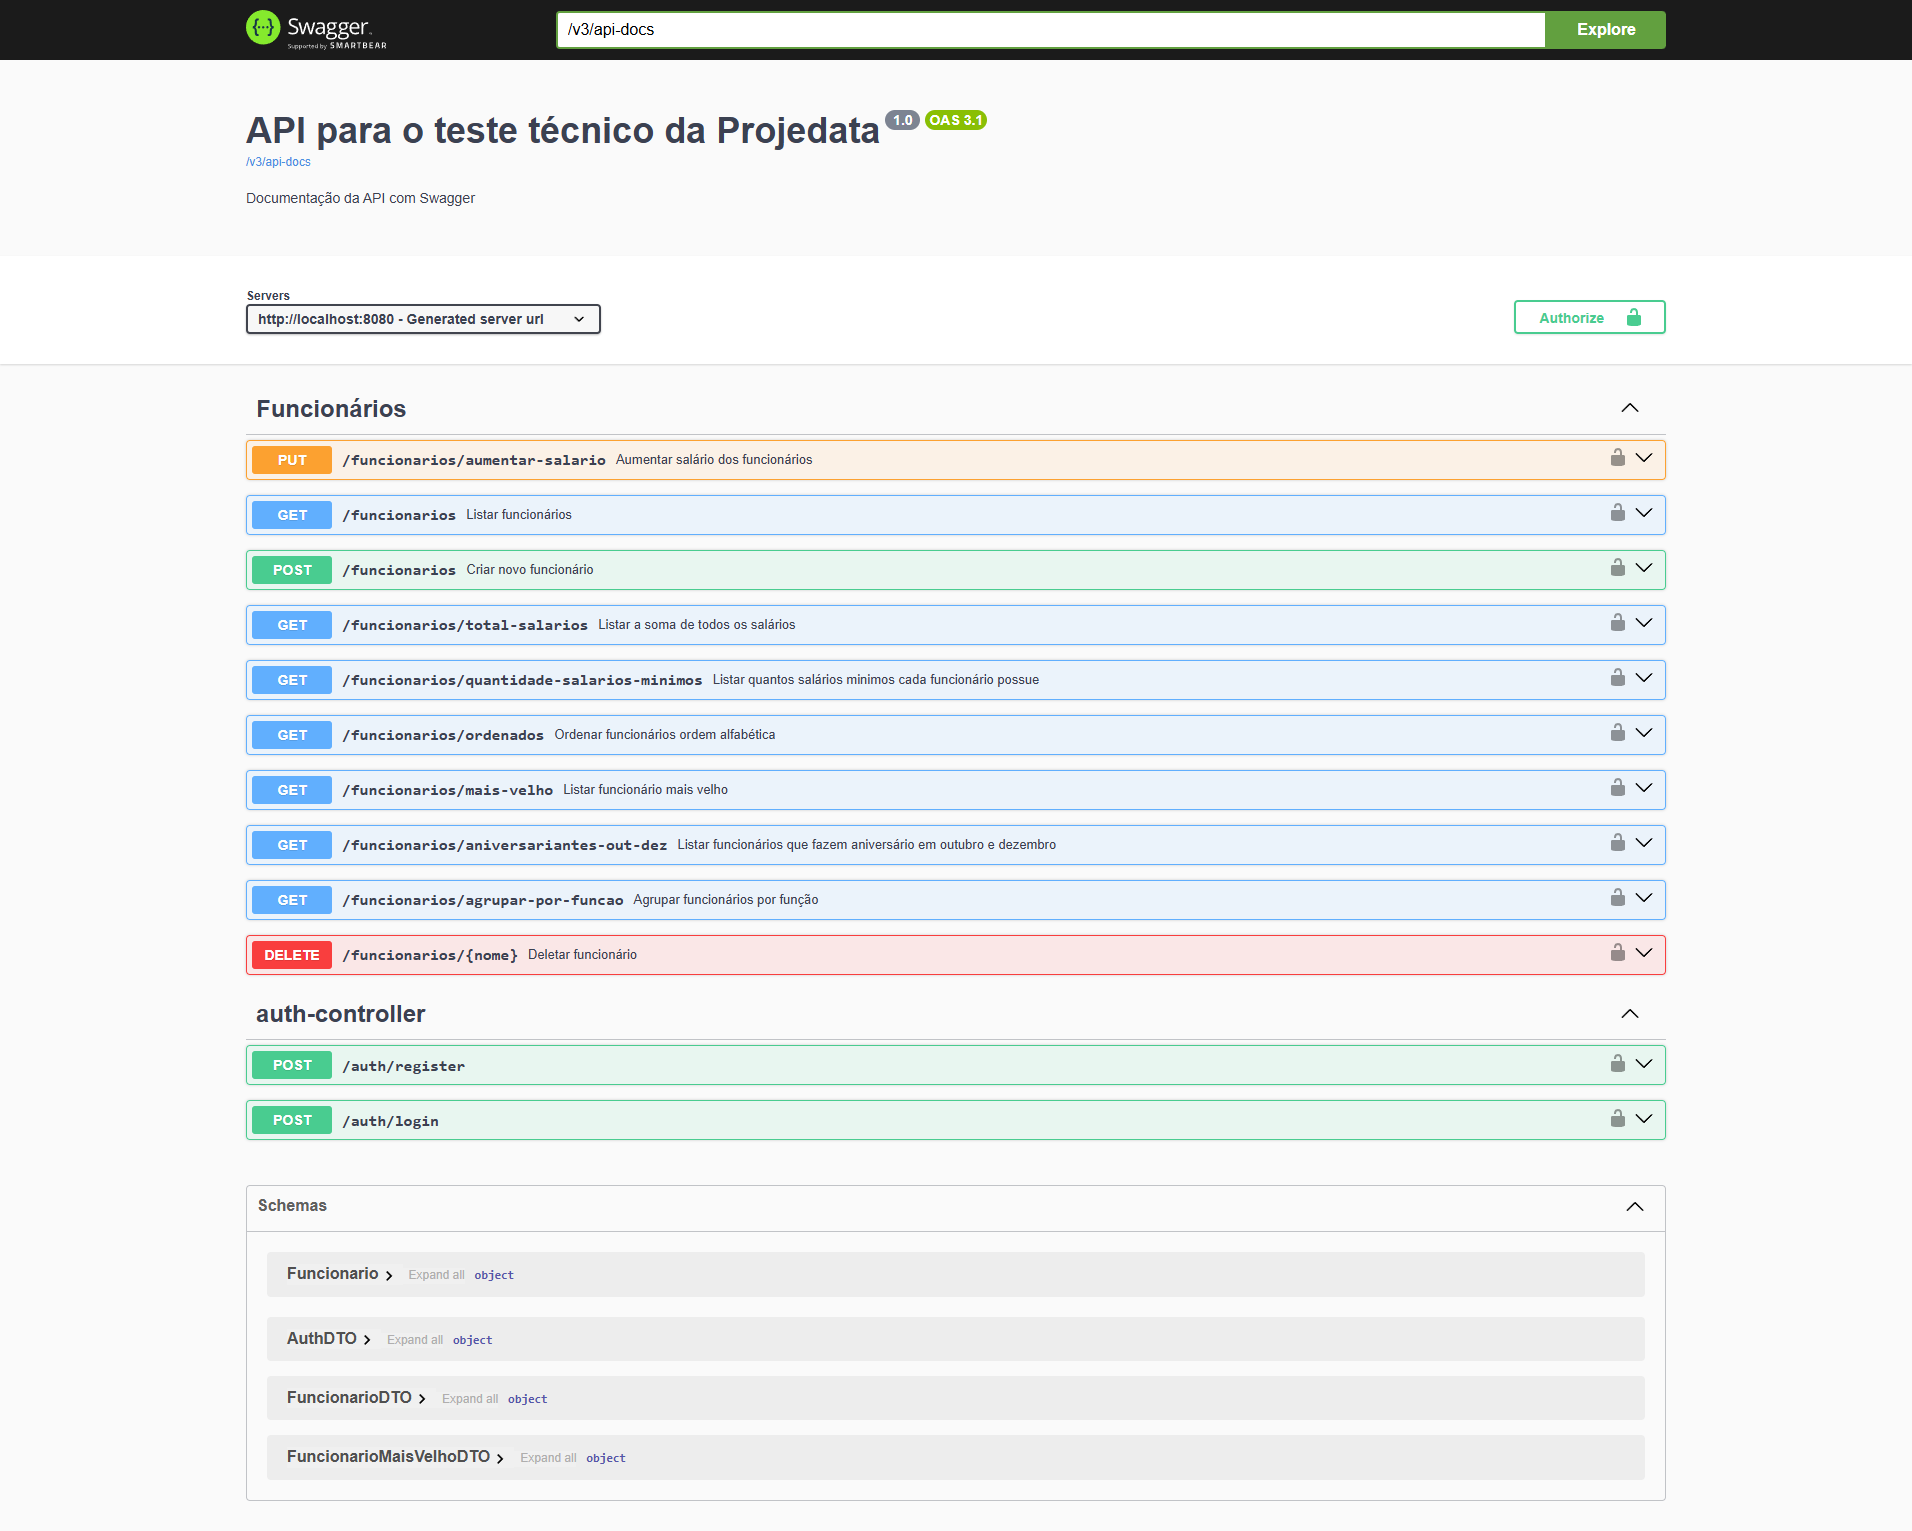
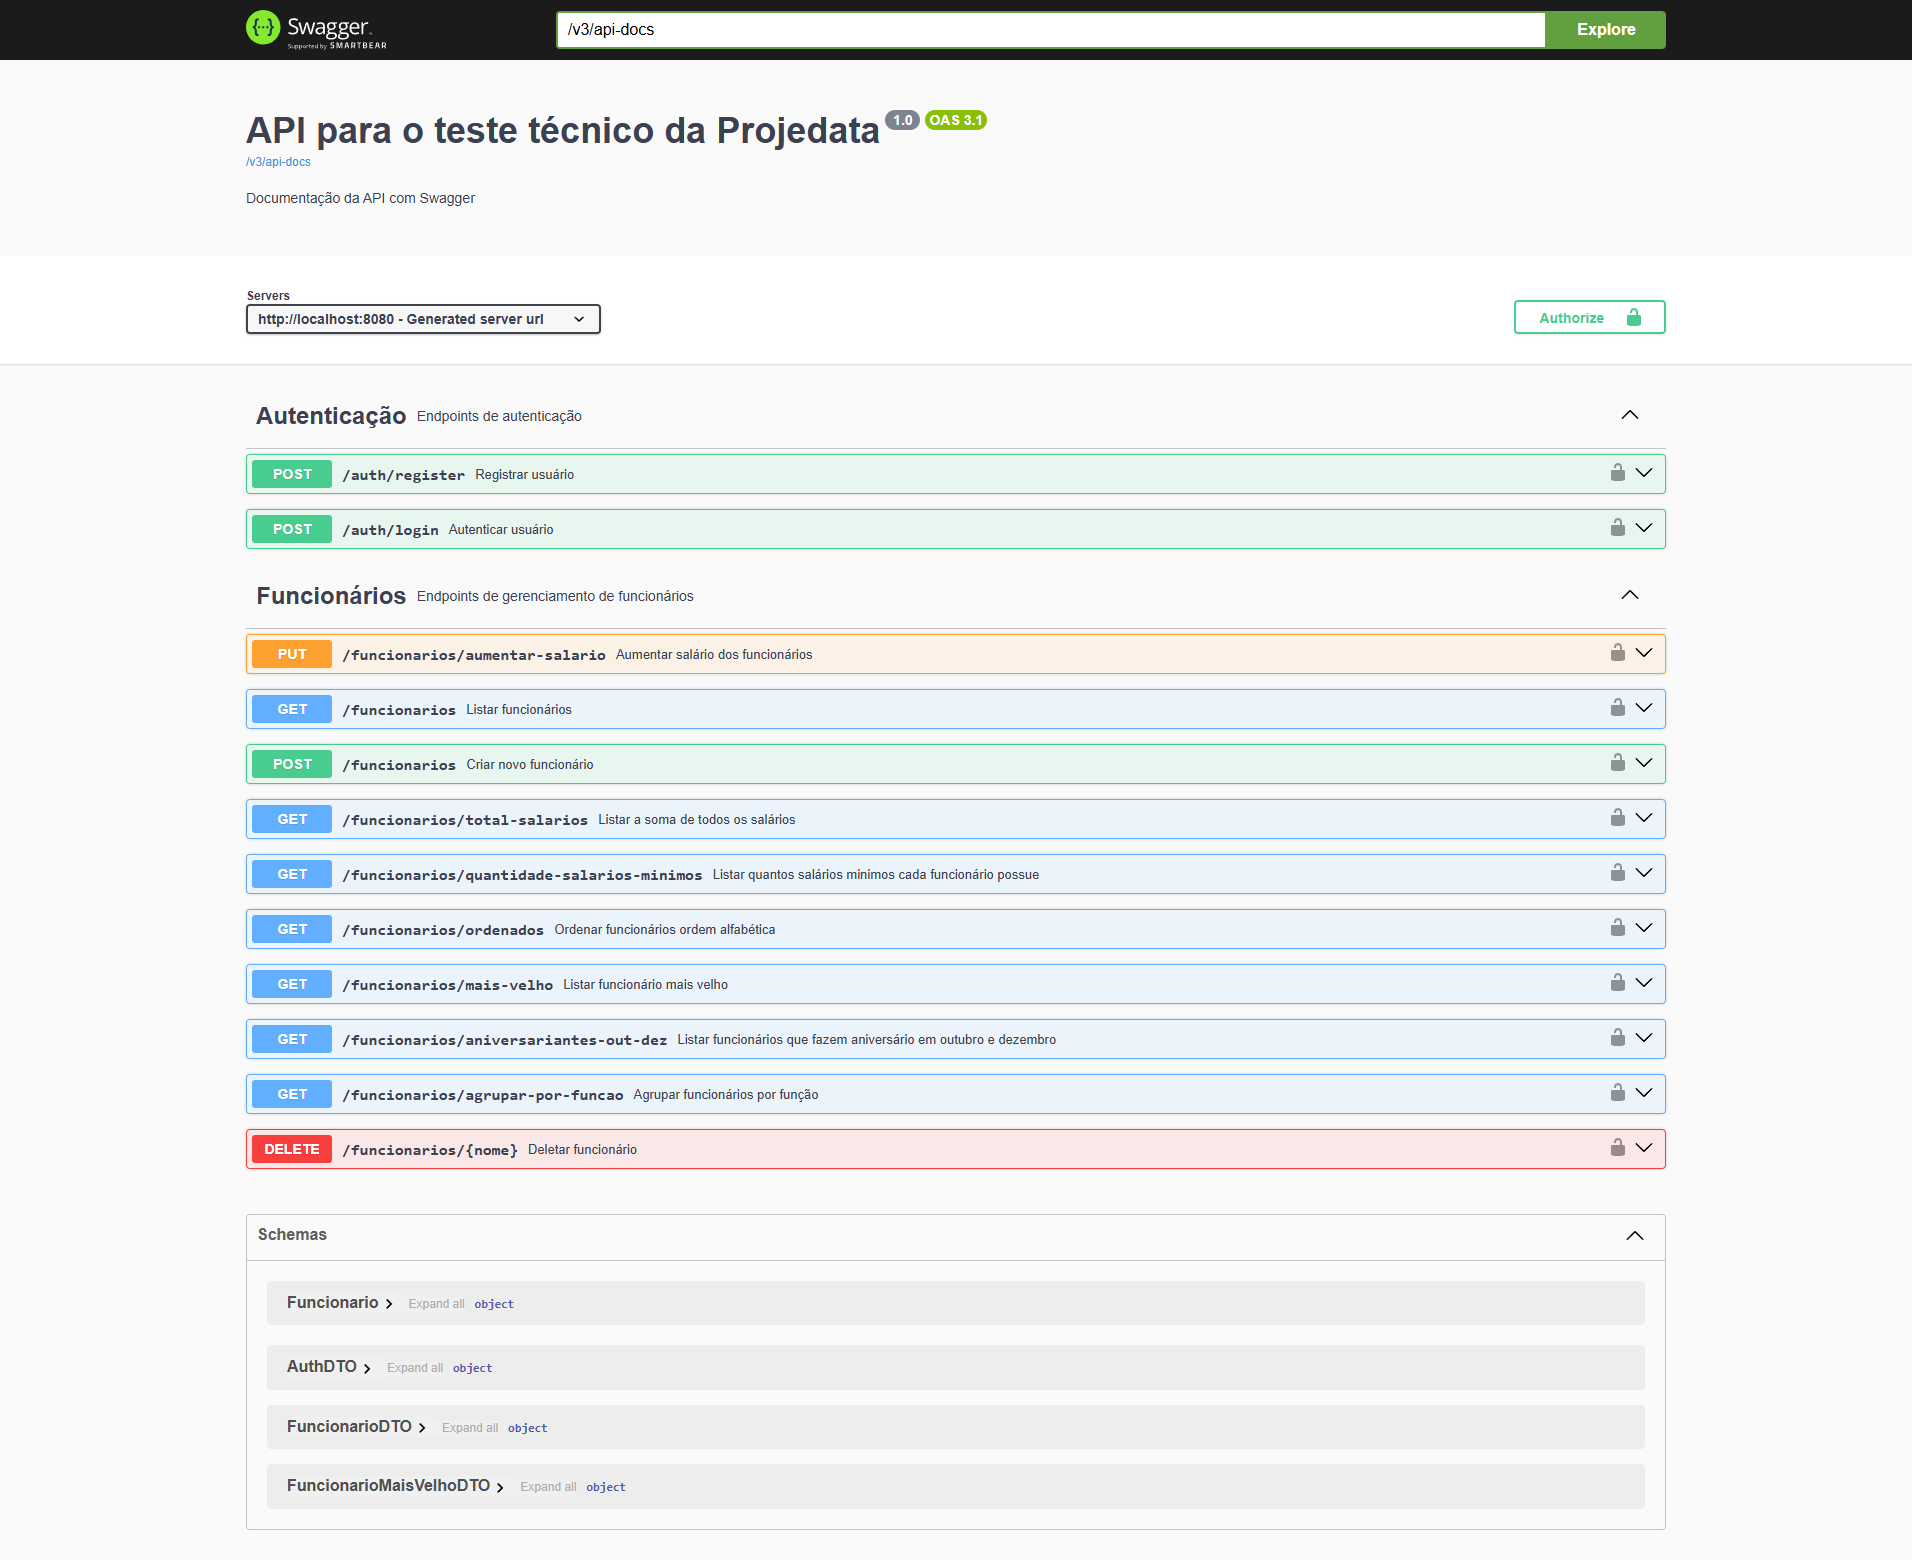
Fix: ajeitando ordem dos endpoints no swagger

diff --git a/src/main/java/com/teste_iniflex/teste_iniflex/config/SwaggerConfig.java b/src/main/java/com/teste_iniflex/teste_iniflex/config/SwaggerConfig.java
@@ -4,8 +4,11 @@ import io.swagger.v3.oas.models.OpenAPI;
 import io.swagger.v3.oas.models.info.Info;
 import io.swagger.v3.oas.models.security.SecurityRequirement;
 import io.swagger.v3.oas.models.security.SecurityScheme;
+import io.swagger.v3.oas.models.tags.Tag;
 import org.springframework.context.annotation.Bean;
 import org.springframework.context.annotation.Configuration;
+
+import java.util.List;
 
 @Configuration
 public class SwaggerConfig {
@@ -15,6 +18,12 @@ public class SwaggerConfig {
                 .title("API para o teste técnico da Projedata")
                 .version("1.0")
                 .description("Documentação da API com Swagger"))
+                .tags(
+                        List.of(
+                                new Tag().name("Autenticação").description("Endpoints de autenticação"),
+                                new Tag().name("Funcionários").description("Endpoints de gerenciamento de funcionários")
+                        )
+                )
                 .addSecurityItem(new SecurityRequirement().addList("JWT"))
                 .components(new io.swagger.v3.oas.models.Components()
                         .addSecuritySchemes("JWT", new SecurityScheme()

diff --git a/src/main/java/com/teste_iniflex/teste_iniflex/controller/AuthController.java b/src/main/java/com/teste_iniflex/teste_iniflex/controller/AuthController.java
@@ -2,9 +2,12 @@ package com.teste_iniflex.teste_iniflex.controller;
 
 import com.teste_iniflex.teste_iniflex.dto.AuthDTO;
 import com.teste_iniflex.teste_iniflex.service.AuthService;
+import io.swagger.v3.oas.annotations.Operation;
+import io.swagger.v3.oas.annotations.tags.Tag;
 import org.springframework.web.bind.annotation.*;
 
 @RestController
+@Tag(name = "Autenticação")
 @RequestMapping("/auth")
 public class AuthController {
 
@@ -15,11 +18,13 @@ public class AuthController {
     }
 
     @PostMapping("/register")
+    @Operation(summary = "Registrar usuário")
     public String register(@RequestBody AuthDTO request) {
         return service.register(request);
     }
 
     @PostMapping("/login")
+    @Operation(summary = "Autenticar usuário")
     public String login(@RequestBody AuthDTO request) {
         return service.login(request);
     }
